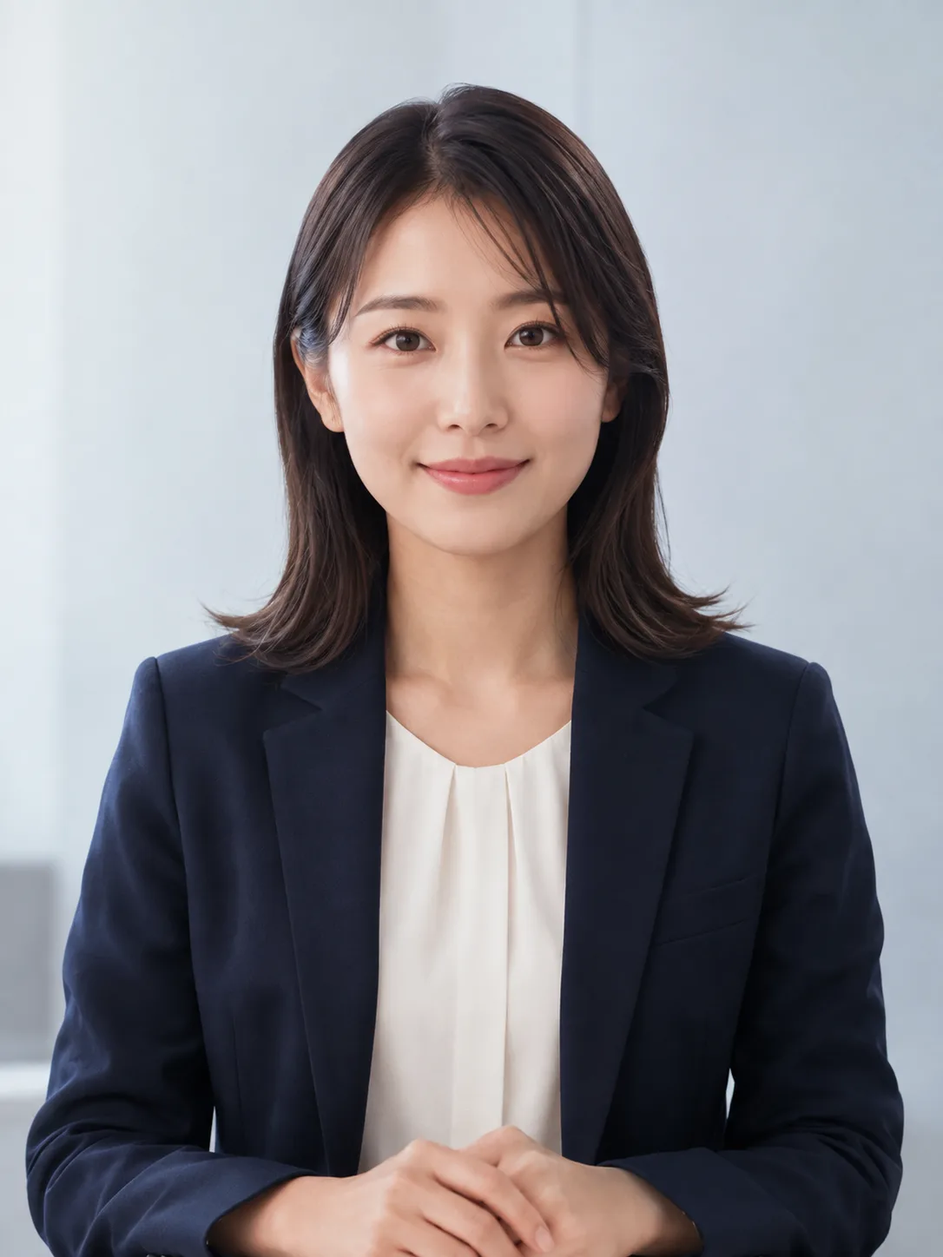
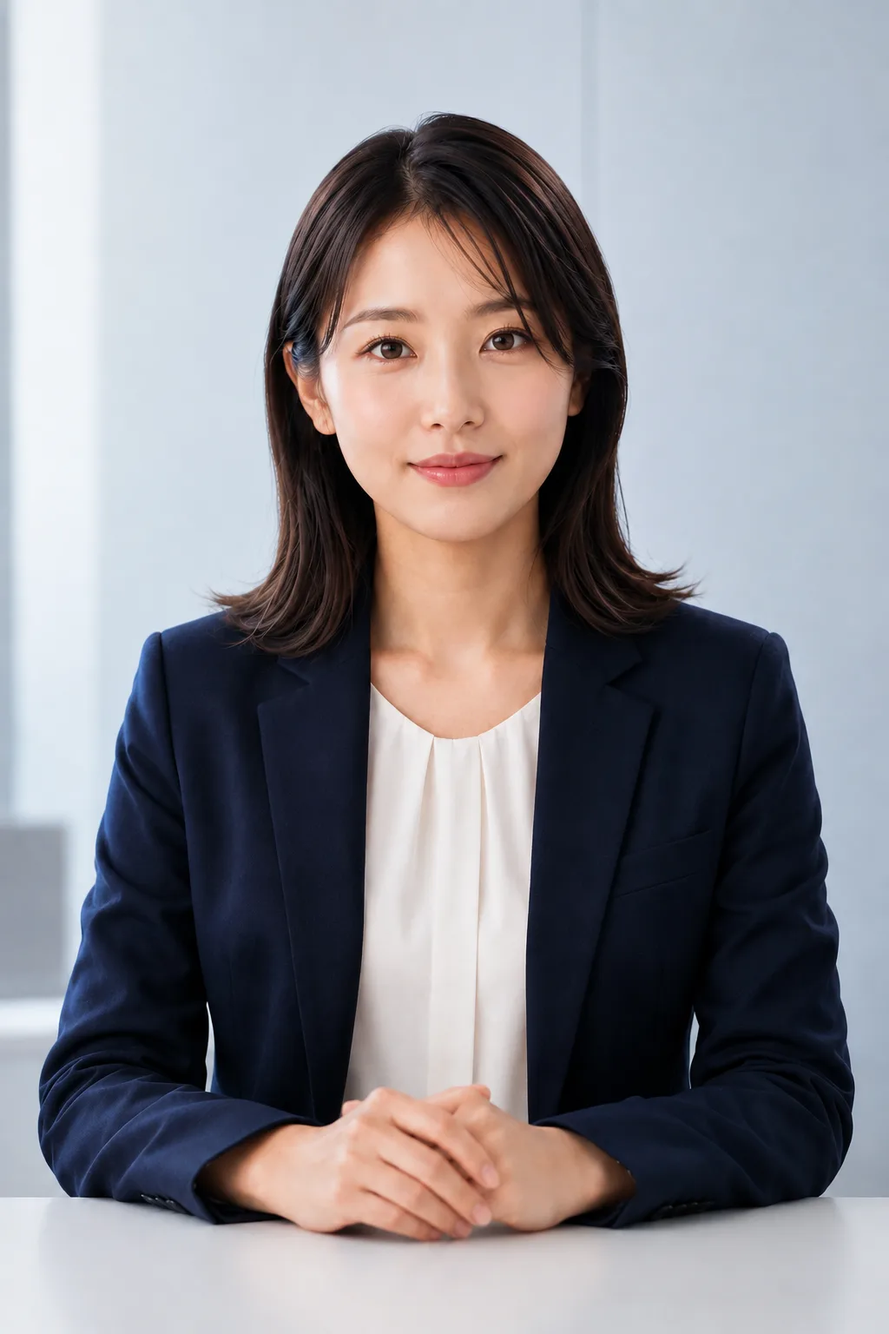
feat(interview): AI面接官 5枚アセットで音声連動口パク+瞬き実装（原価0・ブラウザ内処理）
ユーザー配置の lipsync 5枚（同一pose・1024x1536）を採用・WebP最適化し、共通AI面接官に
「3状態 + 瞬き + 呼吸/微動 + Realtime音声連動口パク + listening頷き」を実装。外部Avatar API/動画生成/
追加AI推論なし＝1面接あたり追加従量原価0円。OpenAI/Realtime/SMS actual 0・Production変更なし。

素材の正規化・配信:
- lipsync-source の 09:03 batch 5枚を採用（neutral=neutralのコピー.png / mouth-small/medium/large / blink）。
  00:49 の旧3状態(neutral/listening/speaking・別pose 1086x1448)は未採用。名前ゆれ・重複は不採用扱い。
- WebP q82（各~52-55KB・1024x1536・構図/顔/背景不変）へ最適化し public/images/interviewer/ へ配置。
  旧 speaking/listening.webp は新モデルで未使用のため削除。lipsync-source は .gitignore（webpのみ配信）。

SoT / 描画:
- lib/interview/interviewer-identity.ts: images を 5枚（neutral/mouthSmall/mouthMedium/mouthLarge/blink）へ。
  interviewerFrameSrc（blink > speaking mouth > neutral の優先順位・非speakingは必ずneutral）。preloadは5枚。
- components/interview/InterviewerAvatar.tsx: remoteStream prop 追加。speaking時のみ createRemoteAudioAnalyzer で
  ブラウザ内RMS→smoothing→mouthState（離散変化時のみsetState・~20fps間引き・rAF）。無音/barge-in/非speaking/
  解析不可→neutral（teardownで口閉じ）。瞬きscheduler（randomized・稀にダブル）。呼吸/頷きは既存。
  reduced-motionで動き抑制。縦長poseの顔切れ防止に object-position:center 18%。
- app/interview/[slug]/session: onRemoteStream の MediaStream を remoteStream state 経由で avatar へ供給
  （mock/未接続は null＝口パクせず静止 neutral）。

tests: interviewerFrameSrc（優先順位/非speaking neutral）+ avatar audio/motion（既存17）+ identity/visual 更新。
docs: INTERVIEW_CHARACTER_SPEC（口パク/瞬き実装済みへ）/ AVATAR_ASSET_CONTRACT（受領・統合済み）。

Codex review: PENDING (usage limit)

diff --git a/components/interview/InterviewerAvatar.tsx b/components/interview/InterviewerAvatar.tsx
@@ -9,10 +9,11 @@
 
 import { useEffect, useRef, useState } from 'react'
 import { INTERVIEW_PHASE_LABELS, type InterviewPhase } from '@/lib/interview/presence'
-import { AI_INTERVIEWER, AI_INTERVIEWER_IMAGE_LIST, interviewerImageForState } from '@/lib/interview/interviewer-identity'
+import { AI_INTERVIEWER, AI_INTERVIEWER_IMAGE_LIST, interviewerFrameSrc } from '@/lib/interview/interviewer-identity'
 import { interviewerVisualForPhase } from '@/lib/interview/interviewer-visual'
-import { nextNodDelayMs, shouldNodNow, nodAllowed } from '@/lib/interview/avatar/avatar-motion'
-import { AVATAR_NOD } from '@/lib/interview/avatar/avatar-config'
+import { nextNodDelayMs, shouldNodNow, nodAllowed, nextBlinkDelayMs, isDoubleBlink, blinkAllowed } from '@/lib/interview/avatar/avatar-motion'
+import { AVATAR_NOD, AVATAR_BLINK, AVATAR_AUDIO, type MouthState } from '@/lib/interview/avatar/avatar-config'
+import { createRemoteAudioAnalyzer, smoothLevel, mouthStateForLevel, resolveMouthLevel } from '@/lib/interview/avatar/audio-analyzer'
 import { avatarVariantForPhase, type AvatarTone } from '@/lib/interview/avatarVisual'
 
 const RING_TONE: Record<AvatarTone, string> = {
@@ -34,15 +35,20 @@ const BAR_TONE: Record<AvatarTone, string> = {
   indigo: 'bg-indigo-300',
 }
 
-export default function InterviewerAvatar({ phase }: { phase: InterviewPhase }) {
+export default function InterviewerAvatar({
+  phase,
+  remoteStream = null,
+}: {
+  phase: InterviewPhase
+  // Realtime AI 音声の MediaStream（speaking 時の口パク解析に使う。未指定/解析不可なら neutral へ安全退避）。
+  remoteStream?: MediaStream | null
+}) {
   const v = avatarVariantForPhase(phase)
   const label = INTERVIEW_PHASE_LABELS[phase]
-  // 3 状態画像（neutral/speaking/listening）を presence phase から選択（判定は SoT の純関数へ集約）。
+  // presence phase → 視覚状態（判定は SoT の純関数へ集約）。
   const visualState = interviewerVisualForPhase(phase)
-  const imageSrc = interviewerImageForState(visualState)
 
-  // 3 状態画像を事前ロードしてブラウザキャッシュへ入れる（AI 発話開始時に初回 download で切替が遅れるのを防ぐ）。
-  // マウント時に一度だけ。ネットワーク待ちを切替の前に済ませる（各 ~50KB WebP）。
+  // 全アセット（5 枚）を事前ロードしてブラウザキャッシュへ入れる（口パク切替時に初回 download で遅れないように）。
   useEffect(() => {
     for (const src of AI_INTERVIEWER_IMAGE_LIST) {
       const img = new Image()
@@ -50,7 +56,7 @@ export default function InterviewerAvatar({ phase }: { phase: InterviewPhase }) 
     }
   }, [])
 
-  // reduced-motion（アクセシビリティ）: breathing/nod を無効化。avatar の 3 状態切替自体は維持。
+  // reduced-motion（アクセシビリティ）: breathing/nod/blink を無効化。avatar の状態切替自体は維持。
   const [reducedMotion, setReducedMotion] = useState(false)
   useEffect(() => {
     if (typeof window === 'undefined' || !window.matchMedia) return
@@ -60,6 +66,74 @@ export default function InterviewerAvatar({ phase }: { phase: InterviewPhase }) 
     mq.addEventListener?.('change', update)
     return () => mq.removeEventListener?.('change', update)
   }, [])
+
+  // ── 音声連動の口パク（speaking のみ・ブラウザ内解析・外部送信なし・原価0）──────────────────────────
+  //   Realtime remote audio(MediaStream) → RMS → smoothing → 離散 mouthState。setState は「離散状態が変化した時だけ」
+  //   （毎 frame setState しない＝再 render を抑制）。speaking でない/stream 無し/解析不可なら closed（neutral）へ。
+  const [mouthState, setMouthState] = useState<MouthState>('closed')
+  const levelRef = useRef(0)
+  useEffect(() => {
+    // speaking かつ stream があるときだけ解析。それ以外は render 側ガードで closed（fail-safe）。
+    if (visualState !== 'speaking' || !remoteStream) return
+    const analyzer = createRemoteAudioAnalyzer(remoteStream)
+    // AudioContext 不可 / track 無し 等 → 解析しない（render は closed=neutral へ安全退避・面接は壊さない）。
+    if (!analyzer) return
+    let raf = 0
+    let lastTs = 0
+    let lastState: MouthState = 'closed'
+    const loop = (ts: number) => {
+      raf = requestAnimationFrame(loop)
+      if (ts - lastTs < AVATAR_AUDIO.sampleIntervalMs) return // ~20fps 間引き（負荷/電池対策）
+      lastTs = ts
+      const raw = resolveMouthLevel({ aiSpeaking: true, rawLevel: analyzer.sample() })
+      levelRef.current = smoothLevel(levelRef.current, raw)
+      const next = mouthStateForLevel(levelRef.current)
+      if (next !== lastState) {
+        lastState = next
+        setMouthState(next) // 離散変化時のみ再 render（毎 frame setState しない）
+      }
+    }
+    raf = requestAnimationFrame(loop)
+    return () => {
+      cancelAnimationFrame(raf)
+      analyzer.dispose()
+      levelRef.current = 0
+      setMouthState('closed') // teardown 時に口を閉じる（speaking 終了/stream 変化で口だけ残さない）
+    }
+  }, [visualState, remoteStream])
+
+  // ── 瞬き（全状態・randomized・短い・稀にダブル）。reduced-motion で無効。────────────────────────────
+  const [blinking, setBlinking] = useState(false)
+  const blinkTimerRef = useRef<ReturnType<typeof setTimeout> | null>(null)
+  useEffect(() => {
+    if (!blinkAllowed(visualState, reducedMotion)) return
+    let cancelled = false
+    const rng = () => Math.random()
+    const doBlink = (remaining: number) => {
+      setBlinking(true)
+      blinkTimerRef.current = setTimeout(() => {
+        if (cancelled) return
+        setBlinking(false)
+        if (remaining > 0) {
+          // ダブルブリンク: 短い間を置いてもう一度。
+          blinkTimerRef.current = setTimeout(() => !cancelled && doBlink(remaining - 1), 140)
+        } else {
+          schedule()
+        }
+      }, AVATAR_BLINK.blinkDurationMs)
+    }
+    const schedule = () => {
+      blinkTimerRef.current = setTimeout(() => {
+        if (cancelled) return
+        doBlink(isDoubleBlink(rng) ? 1 : 0)
+      }, nextBlinkDelayMs(rng))
+    }
+    schedule()
+    return () => {
+      cancelled = true
+      if (blinkTimerRef.current) clearTimeout(blinkTimerRef.current)
+    }
+  }, [visualState, reducedMotion])
 
   // listening 時のみ「時々」自然な頷き（whole-body 微動＝顔差分アセット不要）。
   //   固定周期にせず randomized interval + 確率で発火（延々頷かない）。一回だけの短い CSS 頷きを適用。
@@ -102,13 +176,15 @@ export default function InterviewerAvatar({ phase }: { phase: InterviewPhase }) 
             v.active ? 'iv-ring-active' : ''
           } iv-ring-${v.motion}`}
         />
-        {/* 全企業共通の AIMEN24 標準AI面接官（3状態画像は interviewer-identity.ts の SoT。差し替えは 1 箇所）。
-            固定 w/h + object-cover でレイアウトシフトなし・3状態で人物サイズが変わらない。画像エラー時は neutral へ。 */}
-        {/* key を付けず同一 img の src だけを切替＝キャッシュ済み(preload)なら再マウントせず即時差替（白フラッシュ/レイアウトシフトなし）。 */}
+        {/* 全企業共通の AIMEN24 標準AI面接官（画像は interviewer-identity.ts の SoT。差し替えは 1 箇所）。
+            frame = blink > speaking の mouth(小/中/大) > neutral。非 speaking は必ず neutral（口を開けたまま残さない）。
+            object-cover + 固定 w/h でレイアウトシフトなし。縦長 pose(1024x1536)の顔切れ防止に object-position を上寄せ。
+            key を付けず src だけ差替＝preload 済みで即時（白フラッシュ/ガタつきなし）。画像エラー時は neutral へ。 */}
         {/* eslint-disable-next-line @next/next/no-img-element */}
         <img
-          src={imageSrc}
+          src={interviewerFrameSrc({ visualState, mouthState: visualState === 'speaking' ? mouthState : 'closed', blinking })}
           alt={AI_INTERVIEWER.imageAlt}
+          style={{ objectPosition: 'center 18%' }}
           onError={(e) => {
             if (e.currentTarget.src !== AI_INTERVIEWER.images.neutral) e.currentTarget.src = AI_INTERVIEWER.images.neutral
           }}

diff --git a/lib/interview/interviewer-identity.ts b/lib/interview/interviewer-identity.ts
@@ -5,14 +5,16 @@
 //   （表示名・画像・基本 persona・基本トーン・基本 voice 方針）は本ファイルを唯一の入口にして共通化する。
 //   → 表示名・画像・voice 方針を変えたいときは「ここ 1 箇所」を変えれば全画面へ反映される。
 //
-// 画像（正式アセット・3 状態）: neutral / speaking / listening。画面側で path を直書きしない（本 SoT から取得）。
-//   最終画像への差し替えは public/images/interviewer/ 配下のファイル置換、または本 SoT の images を変えるだけ。
-//   ＝差し替え箇所は 1 箇所に集約。現時点は静止画 3 枚の切替のみ（口パク/animation は未実装・別 scope）。
+// 画像（正式アセット・5 枚・同一人物 同一 pose・1024x1536・WebP 各~55KB）: neutral / mouth-small / mouth-medium /
+//   mouth-large / blink。speaking は「音声レベルに応じて mouth-* を切替」、listening/neutral は neutral を使う。
+//   画面側で path を直書きしない（本 SoT / interviewerFrameSrc から取得）。差し替えは public/images/interviewer/ の
+//   ファイル置換、または本 SoT の images を変えるだけ（1 箇所）。
 //
 // persona/tone は会話挙動 SoT（lib/interview/conversation-policy.ts の INTERVIEW_TONE / INTERVIEW_PRINCIPLES）を
 // 権威にする（本ファイルは「AI 面接官という 1 資産」の identity を束ねる。挙動の詳細はそちらを唯一の権威にする）。
 
 import { REALTIME_VOICE } from '@/lib/config/openai'
+import type { MouthState } from '@/lib/interview/avatar/avatar-config'
 
 // 面接官の視覚状態（3 状態）。runtime の presence/state からここへ写像する（interviewer-visual.ts）。
 export type InterviewerVisualState = 'neutral' | 'speaking' | 'listening'
@@ -20,11 +22,13 @@ export type InterviewerVisualState = 'neutral' | 'speaking' | 'listening'
 export const AI_INTERVIEWER = {
   // 応募者に見せる共通の表示名（企業名とは別。企業名は company.name として別途表示）。
   displayName: 'AI面接官',
-  // 正式 3 状態画像（全企業共通・差し替えは 1 箇所）。Web 配信用に WebP へ最適化済み（同寸法・構図/色/顔不変・各~50KB）。
+  // 正式アセット 5 枚（全企業共通・同一 pose・差し替えは 1 箇所）。
   images: {
-    neutral: '/images/interviewer/ai-interviewer-neutral.webp', // 待機/接続/処理/終了/エラー 等（既定）
-    speaking: '/images/interviewer/ai-interviewer-speaking.webp', // AI 発話中
-    listening: '/images/interviewer/ai-interviewer-listening.webp', // 応募者の回答待ち/回答中
+    neutral: '/images/interviewer/ai-interviewer-neutral.webp', // 口閉じ・目開き（既定：待機/接続/処理/listening/終了 等）
+    mouthSmall: '/images/interviewer/ai-interviewer-mouth-small.webp', // 発話・小
+    mouthMedium: '/images/interviewer/ai-interviewer-mouth-medium.webp', // 発話・中
+    mouthLarge: '/images/interviewer/ai-interviewer-mouth-large.webp', // 発話・大
+    blink: '/images/interviewer/ai-interviewer-blink.webp', // 瞬き（目閉じ・口閉じ）
   },
   imageAlt: 'AI面接官',
   // 共通 voice 方針の SoT（実 voice 名の最終確定は将来 actual でも可。現状は Realtime 既定 voice を単一の真実にする）。
@@ -36,17 +40,37 @@ export const AI_INTERVIEWER = {
 // 既定画像（後方互換 / 単一画像を要する箇所用）。= neutral。
 export const AI_INTERVIEWER_DEFAULT_IMAGE = AI_INTERVIEWER.images.neutral
 
-// preload 用の 3 状態画像リスト（session/practice 開始時にキャッシュへ入れ、切替時の network 待ちを防ぐ）。
+// preload 用の全アセットリスト（session/practice 開始時にキャッシュへ入れ、切替時の network 待ちを防ぐ）。
 export const AI_INTERVIEWER_IMAGE_LIST: readonly string[] = [
   AI_INTERVIEWER.images.neutral,
-  AI_INTERVIEWER.images.speaking,
-  AI_INTERVIEWER.images.listening,
+  AI_INTERVIEWER.images.mouthSmall,
+  AI_INTERVIEWER.images.mouthMedium,
+  AI_INTERVIEWER.images.mouthLarge,
+  AI_INTERVIEWER.images.blink,
 ]
 
-// 視覚状態 → 画像 path（未知/未指定は neutral にフォールバック）。
-export function interviewerImageForState(state: InterviewerVisualState | null | undefined): string {
-  if (state === 'speaking') return AI_INTERVIEWER.images.speaking
-  if (state === 'listening') return AI_INTERVIEWER.images.listening
+// 描画フレーム解決（唯一の写像・画面で直書きしない）。優先順位: blink > speaking の mouth > neutral。
+//   - blinking=true は最優先で blink（発話中の瞬きも自然に一瞬入る）。
+//   - speaking 中は mouthState（closed→neutral / small・medium・large→対応フレーム）。
+//   - listening / neutral / その他は neutral。解析不可（mouthState 未指定/closed）でも neutral へ安全退避。
+export function interviewerFrameSrc(input: {
+  visualState: InterviewerVisualState
+  mouthState?: MouthState
+  blinking?: boolean
+}): string {
+  if (input.blinking) return AI_INTERVIEWER.images.blink
+  if (input.visualState === 'speaking') {
+    switch (input.mouthState) {
+      case 'small':
+        return AI_INTERVIEWER.images.mouthSmall
+      case 'medium':
+        return AI_INTERVIEWER.images.mouthMedium
+      case 'large':
+        return AI_INTERVIEWER.images.mouthLarge
+      default:
+        return AI_INTERVIEWER.images.neutral // closed / 未解析
+    }
+  }
   return AI_INTERVIEWER.images.neutral
 }
 

diff --git a/lib/interview/interviewer-identity.test.ts b/lib/interview/interviewer-identity.test.ts
@@ -1,30 +1,27 @@
 import { describe, it, expect } from 'vitest'
-import { AI_INTERVIEWER, AI_INTERVIEWER_DEFAULT_IMAGE, AI_INTERVIEWER_IMAGE_LIST, interviewerImageForState } from './interviewer-identity'
+import { AI_INTERVIEWER, AI_INTERVIEWER_DEFAULT_IMAGE, AI_INTERVIEWER_IMAGE_LIST, interviewerFrameSrc } from './interviewer-identity'
 import { REALTIME_VOICE } from '@/lib/config/openai'
 
 // AIMEN24 標準AI面接官（全企業共通）の SoT を固定。
 
-describe('AI_INTERVIEWER（全企業共通の SoT・3状態画像）', () => {
-  it('表示名/alt/3状態画像path を1箇所で提供する（Web配信は WebP 最適化）', () => {
+describe('AI_INTERVIEWER（全企業共通の SoT・5枚アセット）', () => {
+  it('表示名/alt/5枚画像path を1箇所で提供する（Web配信は WebP 最適化）', () => {
     expect(AI_INTERVIEWER.displayName).toBe('AI面接官')
     expect(AI_INTERVIEWER.imageAlt).toBe('AI面接官')
     expect(AI_INTERVIEWER.images.neutral).toBe('/images/interviewer/ai-interviewer-neutral.webp')
-    expect(AI_INTERVIEWER.images.speaking).toBe('/images/interviewer/ai-interviewer-speaking.webp')
-    expect(AI_INTERVIEWER.images.listening).toBe('/images/interviewer/ai-interviewer-listening.webp')
+    expect(AI_INTERVIEWER.images.mouthSmall).toBe('/images/interviewer/ai-interviewer-mouth-small.webp')
+    expect(AI_INTERVIEWER.images.mouthMedium).toBe('/images/interviewer/ai-interviewer-mouth-medium.webp')
+    expect(AI_INTERVIEWER.images.mouthLarge).toBe('/images/interviewer/ai-interviewer-mouth-large.webp')
+    expect(AI_INTERVIEWER.images.blink).toBe('/images/interviewer/ai-interviewer-blink.webp')
   })
   it('既定画像は neutral', () => {
     expect(AI_INTERVIEWER_DEFAULT_IMAGE).toBe(AI_INTERVIEWER.images.neutral)
   })
-  it('preload リストは 3 状態画像を全て含む', () => {
-    expect(AI_INTERVIEWER_IMAGE_LIST).toHaveLength(3)
-    expect(AI_INTERVIEWER_IMAGE_LIST).toEqual([AI_INTERVIEWER.images.neutral, AI_INTERVIEWER.images.speaking, AI_INTERVIEWER.images.listening])
-  })
-  it('interviewerImageForState: 各状態→対応画像 / 未知・null は neutral フォールバック', () => {
-    expect(interviewerImageForState('neutral')).toBe(AI_INTERVIEWER.images.neutral)
-    expect(interviewerImageForState('speaking')).toBe(AI_INTERVIEWER.images.speaking)
-    expect(interviewerImageForState('listening')).toBe(AI_INTERVIEWER.images.listening)
-    expect(interviewerImageForState(null)).toBe(AI_INTERVIEWER.images.neutral)
-    expect(interviewerImageForState(undefined)).toBe(AI_INTERVIEWER.images.neutral)
+  it('preload リストは 5 枚を全て含む', () => {
+    expect(AI_INTERVIEWER_IMAGE_LIST).toHaveLength(5)
+    expect(AI_INTERVIEWER_IMAGE_LIST).toContain(AI_INTERVIEWER.images.neutral)
+    expect(AI_INTERVIEWER_IMAGE_LIST).toContain(AI_INTERVIEWER.images.blink)
+    expect(AI_INTERVIEWER_IMAGE_LIST).toContain(AI_INTERVIEWER.images.mouthLarge)
   })
   it('voice 方針は共通 SoT（REALTIME_VOICE）を単一の真実にする（企業別 voice を持たない）', () => {
     expect(AI_INTERVIEWER.voicePolicy).toBe(REALTIME_VOICE)
@@ -34,5 +31,23 @@ describe('AI_INTERVIEWER（全企業共通の SoT・3状態画像）', () => {
     for (const forbidden of ['companyId', 'company_id', 'voiceType', 'tone', 'toneTemplate', 'avatar_config']) {
       expect(keys).not.toContain(forbidden)
     }
+  })
+})
+
+describe('interviewerFrameSrc（描画フレーム解決・優先順位 blink > mouth > neutral）', () => {
+  it('blink は最優先（speaking/mouth より優先）', () => {
+    expect(interviewerFrameSrc({ visualState: 'speaking', mouthState: 'large', blinking: true })).toBe(AI_INTERVIEWER.images.blink)
+    expect(interviewerFrameSrc({ visualState: 'neutral', blinking: true })).toBe(AI_INTERVIEWER.images.blink)
+  })
+  it('speaking + mouthState → 対応 mouth フレーム / closed は neutral', () => {
+    expect(interviewerFrameSrc({ visualState: 'speaking', mouthState: 'small' })).toBe(AI_INTERVIEWER.images.mouthSmall)
+    expect(interviewerFrameSrc({ visualState: 'speaking', mouthState: 'medium' })).toBe(AI_INTERVIEWER.images.mouthMedium)
+    expect(interviewerFrameSrc({ visualState: 'speaking', mouthState: 'large' })).toBe(AI_INTERVIEWER.images.mouthLarge)
+    expect(interviewerFrameSrc({ visualState: 'speaking', mouthState: 'closed' })).toBe(AI_INTERVIEWER.images.neutral)
+    expect(interviewerFrameSrc({ visualState: 'speaking' })).toBe(AI_INTERVIEWER.images.neutral) // 未解析
+  })
+  it('listening / neutral は neutral（口を開けたまま残さない）', () => {
+    expect(interviewerFrameSrc({ visualState: 'listening', mouthState: 'large' })).toBe(AI_INTERVIEWER.images.neutral)
+    expect(interviewerFrameSrc({ visualState: 'neutral', mouthState: 'medium' })).toBe(AI_INTERVIEWER.images.neutral)
   })
 })

diff --git a/app/interview/[slug]/session/page.tsx b/app/interview/[slug]/session/page.tsx
@@ -121,6 +121,8 @@ export default function SessionPage() {
   // effect クロージャに捕捉されて elapsedSeconds が陳腐化するため、ref で常に現在値を参照する。
   const elapsedRef = useRef(0)
   const remoteAudioRef = useRef<HTMLAudioElement>(null)
+  // AI 音声の MediaStream（アバターの口パク解析用。mock/未接続は null＝口パクせず静止 neutral）。
+  const [remoteStream, setRemoteStream] = useState<MediaStream | null>(null)
   // transcript は PR-2 ではメモリ保持のみ（DB保存は PR-3）。
   const transcriptRef = useRef<{ role: 'applicant' | 'ai'; text: string }[]>([])
   // 二重 /end 防止（自動完了・手動終了・時間切れの競合を同期的に弾く）
@@ -652,6 +654,7 @@ export default function SessionPage() {
             }
             // AI 音声チャンネルが有効化＝AI が最初に挨拶/質問する側 → speaking 表示（3状態アバター）。
             setPhase('speaking')
+            setRemoteStream(rs) // アバターの口パク解析へ供給（ブラウザ内・外部送信なし）。
           },
           onTranscript: (t) => {
             transcriptRef.current.push(t) // メモリ保持（表示/ウォッチドッグ用）
@@ -1203,7 +1206,7 @@ export default function SessionPage() {
             </span>
           </div>
 
-          <InterviewerAvatar phase={interviewPhase} />
+          <InterviewerAvatar phase={interviewPhase} remoteStream={remoteStream} />
 
           {/* Phase I-3: 現在質問（AI発話テキスト）表示エリア。
               長文でも切れずに読めるよう line-clamp を撤去し、max-height＋縦スクロール＋折り返しにする。

diff --git a/lib/interview/interviewer-visual.test.ts b/lib/interview/interviewer-visual.test.ts
@@ -1,6 +1,6 @@
 import { describe, it, expect } from 'vitest'
 import { interviewerVisualForPhase, resolveInterviewerVisual } from './interviewer-visual'
-import { interviewerImageForState } from './interviewer-identity'
+import { interviewerFrameSrc } from './interviewer-identity'
 import type { InterviewPhase } from './presence'
 
 // AI面接官の視覚状態写像（neutral/speaking/listening）+ 優先順位を固定（OpenAI 非接続・純ロジック）。
@@ -21,7 +21,8 @@ describe('interviewerVisualForPhase: presence phase → 3状態', () => {
     for (const p of ['connecting', 'idle', 'listening', 'thinking', 'speaking', 'ending'] as InterviewPhase[]) {
       const v = interviewerVisualForPhase(p)
       expect(['neutral', 'speaking', 'listening']).toContain(v)
-      expect(interviewerImageForState(v)).toMatch(/ai-interviewer-(neutral|speaking|listening)\.webp$/)
+      // frame は常に実在アセット（未解析 speaking も neutral へ安全退避）。
+      expect(interviewerFrameSrc({ visualState: v })).toMatch(/ai-interviewer-(neutral|mouth-(small|medium|large)|blink)\.webp$/)
     }
   })
 })

diff --git a/docs/INTERVIEW_CHARACTER_SPEC.md b/docs/INTERVIEW_CHARACTER_SPEC.md
@@ -80,15 +80,22 @@
 - 面接官として中立
 - 長い相槌をしない
 
-## Task 13 — アニメーション境界（更新: Lightweight Realtime Avatar）
-- **実装済み（追加アセット不要・原価 0）**: 呼吸 breathing（全状態・ごく僅か）／listening 頷き nod（随時・機械的でない）。
-  reduced-motion で無効化。3 状態切替は維持。ロジック SoT = `lib/interview/avatar/`（audio-analyzer / avatar-motion / avatar-config）。
-- **アセット待ち（同一人物・同一 pose の mouth/eye 差分が必須）**: 音声連動の軽量口パク（lip-sync）／瞬き（blink）。
-  仕様 = `docs/AVATAR_ASSET_CONTRACT.md`。Audio Analyzer（Realtime remote audio→ブラウザ内 RMS→mouth level）は実装済み・配線待ち。
+## Task 13 — アニメーション境界（Lightweight Realtime Avatar・実装済み）
+- **正式アセット = 5 枚**（同一人物・同一 pose・1024×1536・WebP 各~55KB・`public/images/interviewer/`）:
+  `ai-interviewer-neutral`（口閉じ/目開き・既定）/ `-mouth-small` / `-mouth-medium` / `-mouth-large`（発話）/ `-blink`（目閉じ）。
+- **実装済み（追加アセット不要・原価 0）**:
+  - 呼吸 breathing（全状態・ごく僅か）／listening 頷き nod（随時・機械的でない）。
+  - **音声連動 口パク（speaking のみ）**: Realtime remote audio(MediaStream)→ブラウザ内 RMS→smoothing→mouthState
+    （closed/small/medium/large）→対応フレーム。**無音/barge-in/非 speaking/解析不可 → 即 neutral（口閉じ）**。
+  - **瞬き blink**: randomized interval・短い・稀にダブル。全状態。
+  - reduced-motion で breathing/nod/blink を無効化（口パクの状態切替自体は維持）。
+  - ロジック SoT = `lib/interview/avatar/`（audio-analyzer / avatar-motion / avatar-config）＋描画写像 = `interviewerFrameSrc`。
+- **描画優先順位**: blink > speaking の mouth(小/中/大) > neutral。setState は「離散 mouthState 変化時のみ」＝毎 frame 再 render しない
+  （~20fps 間引き・rAF・GPU 合成 transform）。
 - **禁止（本 scope 外）**: 音素完全一致 viseme / 動画 avatar / Live2D / Wav2Lip server / 外部 Talking Avatar API /
-  リアルタイム表情生成 / 手振り生成。すべてブラウザ内処理のみ・1 面接あたり追加外部 API 原価 0。
-- **fallback（HARD）**: AudioContext/Analyser 不可・Safari 制約・権限問題でも、静止 3 状態（neutral/speaking/listening）へ安全に退避。
-  アバター障害で面接本体を止めない。
+  リアルタイム表情生成 / 手振り生成。すべてブラウザ内処理のみ・**1 面接あたり追加外部 API 原価 0**。
+- **fallback（HARD）**: AudioContext/Analyser 不可・Safari 制約・権限問題・mock（remote stream 無し）でも、静止 neutral へ安全退避。
+  アバター障害で面接本体を止めない。実 audio 連動の体感は R1 で確認。
 
 ## R1 acceptance（Avatar・実接続時に確認）
 - AI 音声開始と口の開始が自然（極端な遅延なし）／音声停止・barge-in で口が即閉じる。

diff --git a/docs/AVATAR_ASSET_CONTRACT.md b/docs/AVATAR_ASSET_CONTRACT.md
@@ -1,5 +1,12 @@
 # Lightweight Realtime Avatar — 追加アセット仕様（人間側で用意）
 
+> **STATUS（更新）: 方式A の 5 枚アセットを受領・統合済み。** `public/images/interviewer/lipsync-source/` に配置された
+> 元 PNG（同一 pose・1024×1536）を WebP q82（各~55KB・構図/顔/背景不変）へ最適化し、`ai-interviewer-neutral.webp` /
+> `-mouth-small.webp` / `-mouth-medium.webp` / `-mouth-large.webp` / `-blink.webp` として配置。SoT `AI_INTERVIEWER.images` と
+> `interviewerFrameSrc` で一元管理。音声連動口パク・瞬きは実装・配線済み（`components/interview/InterviewerAvatar.tsx`）。
+> lipsync-source は配信不要のため `.gitignore` 済み（webp のみコミット）。以下は当初の仕様（記録）。
+
+
 本 PR（`feature/lightweight-realtime-avatar`）は **追加アセット不要の部分**（Audio Analyzer / Motion Controller /
 呼吸 breathing / 頷き nod / fallback / config SoT）を実装済み。**自然な口パク(lip-sync)と瞬き(blink)は同一人物・同一 pose の
 差分アセットが必須**（現在の 3 枚は各々「別 pose の全身写真」で、全フレーム高速切替は不自然な“パカパカ”になり不可）。
